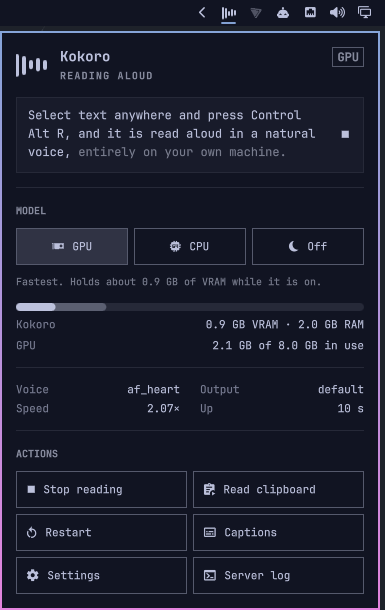
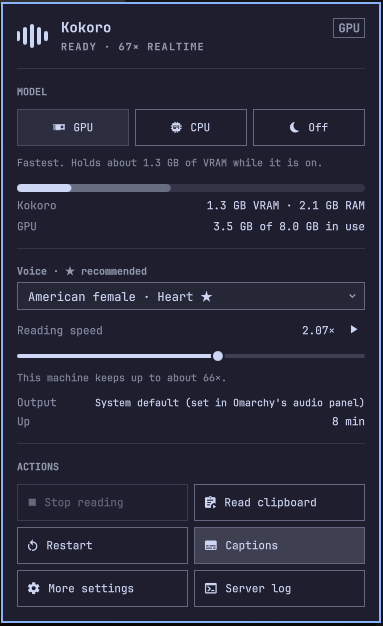
docs: re-shoot the Omarchy panel screenshot with the settings rows
The old shot showed the read-only voice and speed lines from before the
panel could change them. The new one, taken by the user, shows the voice
list, the speed slider and the sustain line. The alt text describes it.

Changed region(s): [[0.0, 0.0, 1.0, 1.0]]

diff --git a/docs/omarchy.md b/docs/omarchy.md
@@ -10,7 +10,7 @@ day, and a game or a local LLM may need that VRAM.
 [`kokoroctl`](#kokoroctl), the command the widget runs, works on any Linux
 install.
 
-<img src="img/omarchy-widget.png" width="385" alt="The Kokoro panel open under its bar icon, reading on the GPU: the sentence being spoken with the read part highlighted, the GPU / CPU / Off switch, Kokoro's share of GPU memory, the live voice and speed, and six action buttons">
+<img src="img/omarchy-widget.png" width="383" alt="The Kokoro panel, ready on the GPU at 67 times realtime: the GPU / CPU / Off switch, Kokoro's share of GPU memory, a voice list set to American female Heart with a star, a reading-speed slider at 2.07x with a play button and the speed this machine keeps up with, the output device, and six action buttons">
 
 ## The icon
 

diff --git a/docs/AUDIT.md b/docs/AUDIT.md
@@ -3902,9 +3902,9 @@ player, AMD and Intel GPUs. Each gets one line, described from its own README.
 
 **Still to do:**
 - ~~**Record the demo GIF.**~~ Done 2026-10-20, see the entry below.
-- **Re-shoot `docs/img/omarchy-widget.png`.** It still shows the read-only
-  voice/speed lines from before the settings rows, and its alt text describes
-  that.
+- ~~**Re-shoot `docs/img/omarchy-widget.png`.**~~ Done 2026-10-20 by the
+  user: the panel at rest on the GPU, with the voice list and speed slider.
+  Its alt text in `omarchy.md` describes the new shot.
 - **The "latest release" badge shows "no releases"** until v0.2.0 is
   published as a GitHub Release: `v0.1.0-beta` is only a tag.
 
